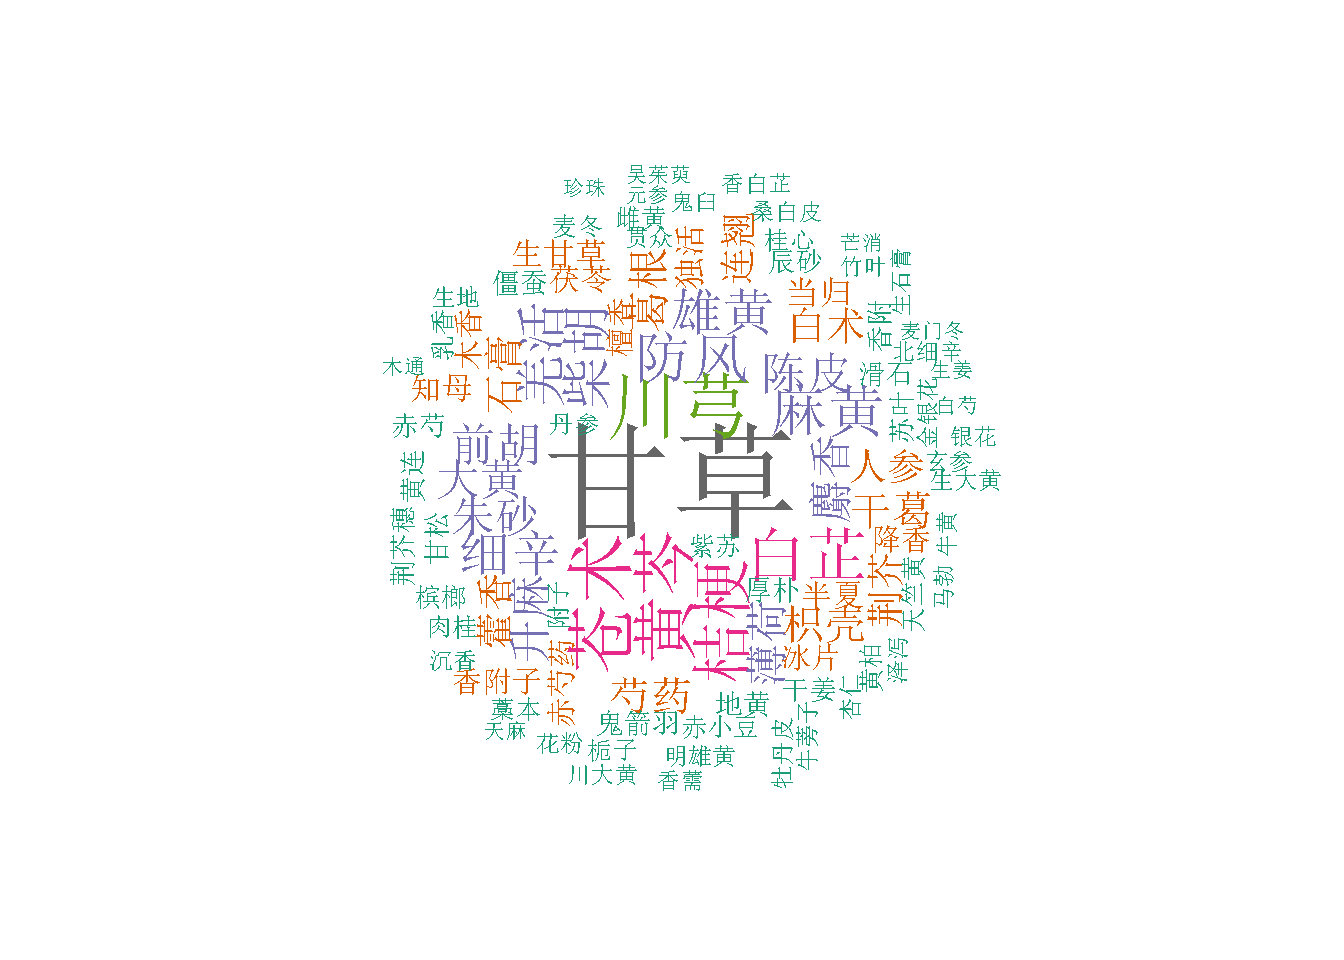
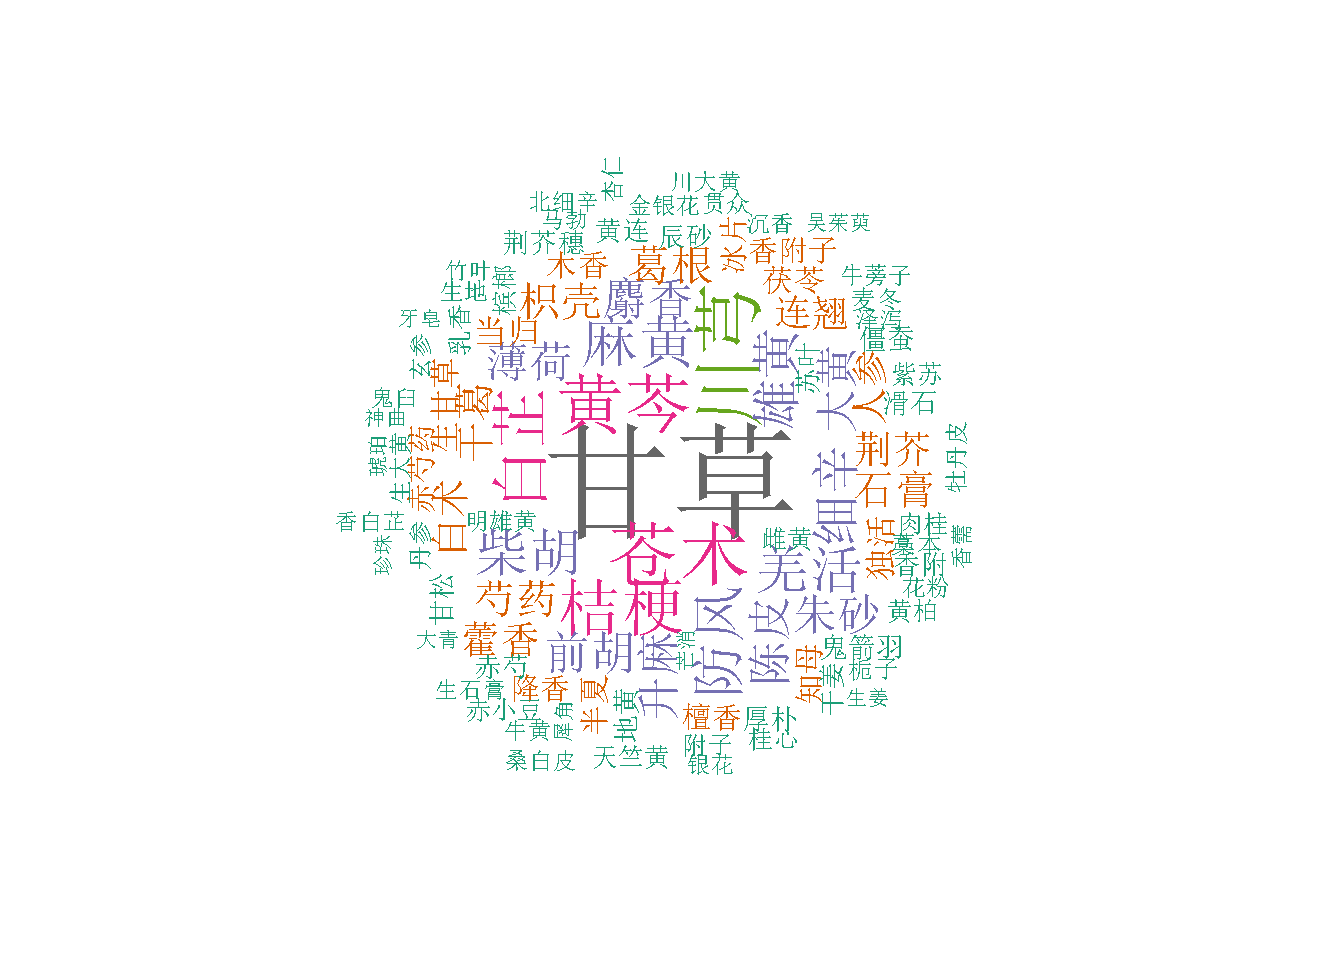
add some notes to explore page
add wordcloud chart, add some 'thoughts' about the findings for example

Changed region(s): [[0.25, 0.1562, 0.75, 0.8125]]

diff --git a/explore.html b/explore.html
@@ -274,8 +274,11 @@ $(document).ready(function () {
 
 
 <hr />
-<div id="an-exploration-on-chinese-herb-prescription-treating-瘟病-wenbing-the-plague-contagious-disease-defined-by-chinese-herbal-medicine.-will-use-wenbing-to-represent-the-disease-we-are-interested" class="section level4">
-<h4><strong>An Exploration on Chinese Herb &amp; Prescription Treating 瘟病 (WenBing, the Plague &amp; Contagious Disease defined by Chinese Herbal Medicine). Will use ‘WenBing’ to represent the disease we are interested</strong></h4>
+<div id="explore-the-herbs-prescriptions-treating-瘟病-wenbing-the-plague-contagious-disease-defined-by-chinese-herbal-medicine." class="section level4">
+<h4><span style="text-decoration:underline;color:green"><strong>Explore the Herbs &amp; Prescriptions Treating 瘟病 (WenBing, the Plague &amp; Contagious Disease defined by Chinese Herbal Medicine).</strong> </span></h4>
+<ul>
+<li><strong>Will use ‘WenBing’ to represent the disease we are interested &amp; exploring.</strong></li>
+</ul>
 <p><br></p>
 </div>
 <div id="explore-in-herbs" class="section level4">
@@ -307,6 +310,13 @@ $(document).ready(function () {
 <center>
 <img src="explore_files/figure-html/fj_wen-1.png" width="672" />
 </center>
+<ul>
+<li><strong>Some thoughts on above findings and need to do more work on:</strong>
+<ul>
+<li><strong>the herb ‘甘草’(Licorice, or Radix Glycyrrhiza), which occurred most among picked prescriptions, is a common ‘supporting’ herb used among prescriptions.</strong> <br> (see the wordcloud chart of the herb component frequencies among all prescriptions on <a href="https://digitherb.github.io/prescri.html">Prescription Page</a>** <br> <strong>‘Supporting’ herb means it help ‘balance’/‘buffering’ the different herbs’ functions in the prescription, to help them work together.</strong> <br> <strong>On the other hand, the Licorice was considered having ingredients like <a href="https://pubmed.ncbi.nlm.nih.gov/24870200/">‘glycyrrhizin’ may affect the cell membrane stability</a>–something sounds like why herbal medicine used it as a ‘supporting’ herb to ‘balance/stabilize the prescription’.</strong></li>
+</ul></li>
+</ul>
+<hr />
 </div>
 
 
